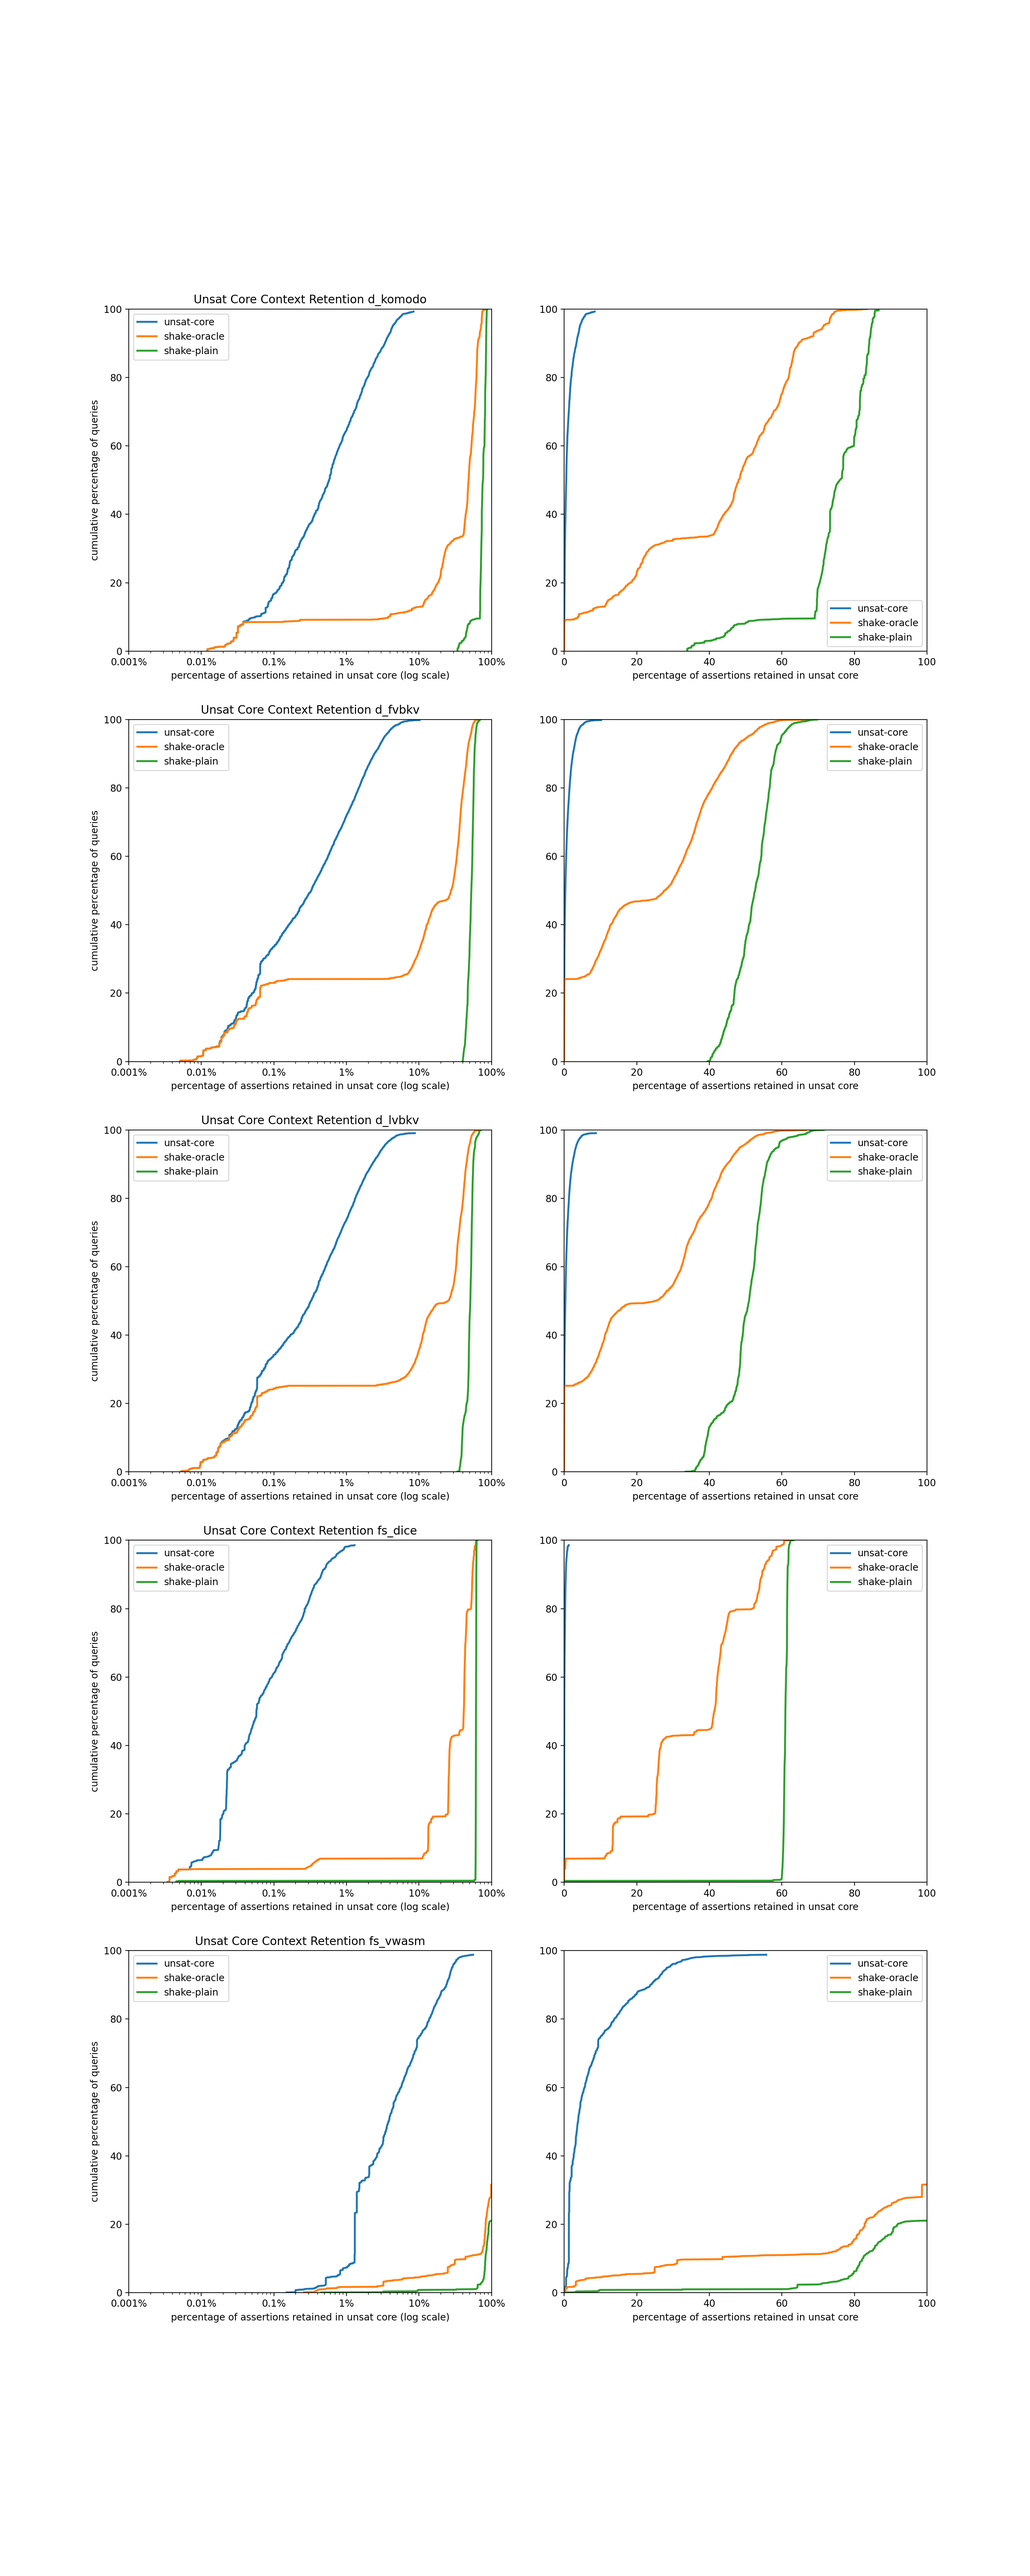
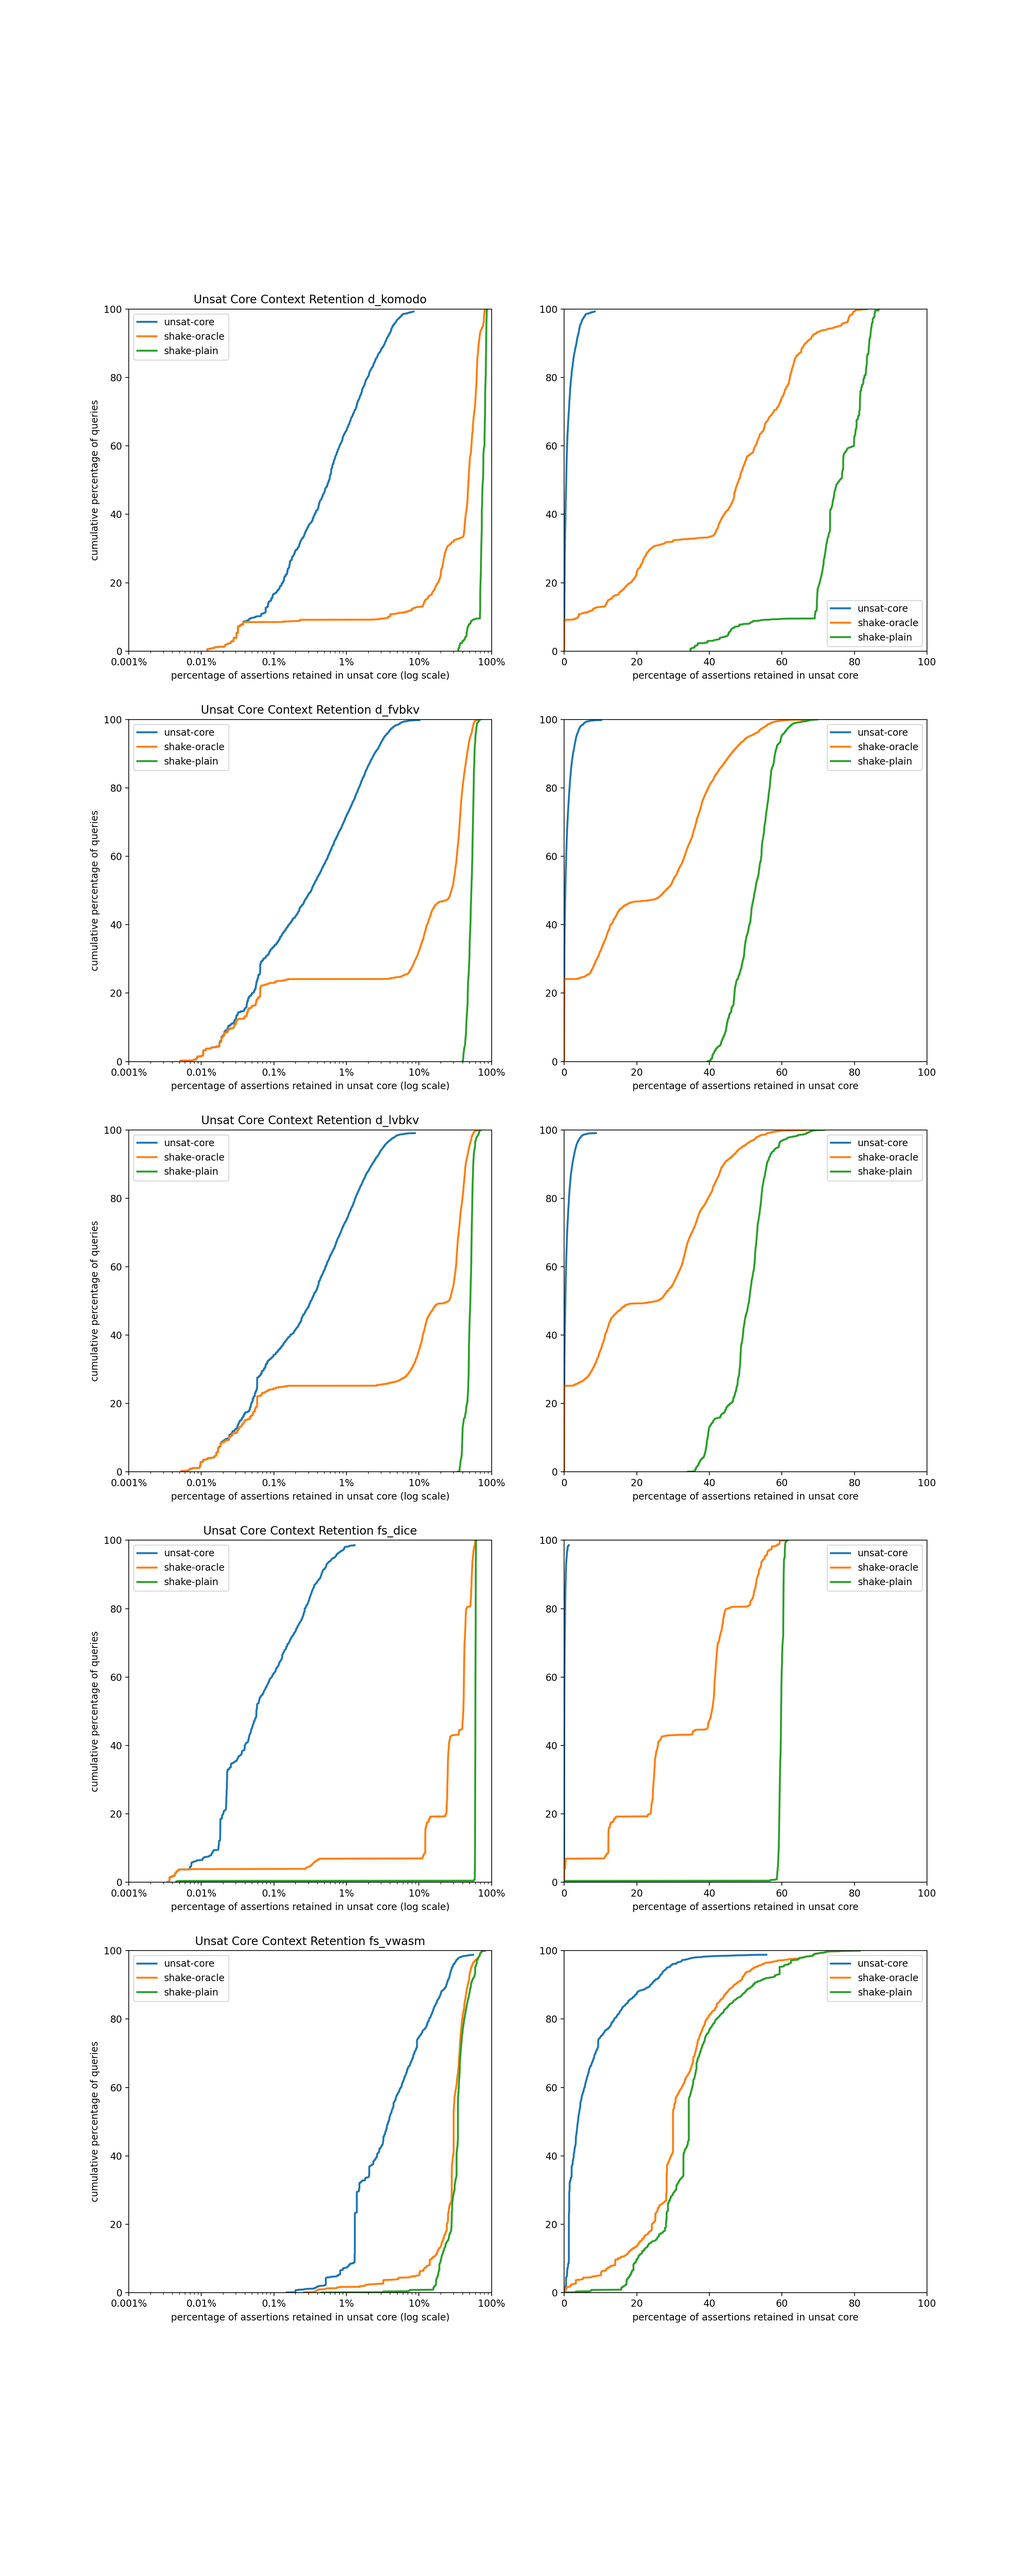
incoperate plot into unsat_core cmd utils

diff --git a/scripts/unsat_core_main.py b/scripts/unsat_core_main.py
@@ -5,6 +5,7 @@ from db_utils import *
 from cache_utils import *
 from unsat_core_build import *
 from unsat_core_stats import *
+from unsat_core_plot import *
 import argparse
 
 def emit_build(contents):
@@ -30,6 +31,13 @@ def handle_build(args, projects):
         func = lambda qm: qm.emit_shake()
     elif args.action == "oracle":
         func = lambda qm: qm.shake_from_oracle()
+    elif args.action == "shake-clean":
+        for p in projects:
+            os.system(f"rm -r {p.shke.clean_dir}")
+        return
+    else:
+        print(f"[WARN] unknown action {args.action}")
+        return
 
     contents = []
 
@@ -40,12 +48,37 @@ def handle_build(args, projects):
     emit_build(contents)
 
 def handle_stats(args, projects):
-    if args.target == "missing":
-        for p in projects:
+    for p in projects:
+        print(f"# {p.name}")
+        if args.target == "missing":
             p.print_missing_stats()
-    elif args.target == "shake-incomplete":
-        for p in projects:
+        elif args.target == "shake-incomplete":
             stat_shake_incomplete(p.qms, args.clear_cache)
+        elif args.target == "baseline-unstable":
+            stat_baseline_unstable(p)
+        else:
+            print(f"[WARN] unknown target {args.target}")
+
+def handle_plot(args, projects):
+    if args.target == "core-retention":
+        plot_core_retention(projects)
+    elif args.target == "shake-retention":
+        figure, axis = setup_fig(len(projects), 2)
+        for i, proj in enumerate(projects):
+            plot_shake_context_retention(axis[i], proj)
+        plt.savefig(f"fig/context/retention_shake.png", dpi=200)
+        plt.close()
+    elif args.target == "shake-depth":
+        figure, axis = setup_fig(len(projects), 1)
+        for i, proj in enumerate(projects):
+            plot_shake_max_depth(axis[i], proj)
+        plt.savefig(f"fig/context/shake_max_depth.png", dpi=200)
+        plt.close()
+    elif args.target == "migration":
+        for p in projects:
+            plot_migration(p)
+    else:
+        print(f"[WARN] unknown target {args.target}")
 
 if __name__ == "__main__":
     parser = argparse.ArgumentParser(description="a separate tool managing/building unsat core experiments")
@@ -60,6 +93,10 @@ if __name__ == "__main__":
     stats_parser.add_argument("-p", "--project", required=True, help="the target project, use 'all' to run on all projects")
     stats_parser.add_argument("-t", "--target", required=True, help="the target stats")
     stats_parser.add_argument("-c", "--clear_cache", default=False, action='store_true',help="clear the cache")
+
+    plot_parser = subparsers.add_parser('plot', help='plot stats')
+    plot_parser.add_argument("-p", "--project", required=True, help="the target project, use 'all' to run on all projects")
+    plot_parser.add_argument("-t", "--target", required=True, help="the target stats")
 
     args = parser.parse_args()
 
@@ -76,6 +113,5 @@ if __name__ == "__main__":
         handle_build(args, projects)
     elif args.sub_command == "stats":
         handle_stats(args, projects)
-
-
-
+    elif args.sub_command == "plot":
+        handle_plot(args, projects)

diff --git a/scripts/unsat_core_build.py b/scripts/unsat_core_build.py
@@ -2,9 +2,7 @@ from basic_utils import *
 from diff_smt import *
 from configer import *
 from db_utils import *
-from unsat_core_search import run_z3
 from cache_utils import *
-import argparse
 
 UNSAT_CORE_PROJECTS_NAMES = {
     "d_komodo": ("d_komodo_uc", "d_komodo_uc_ext", "d_komodo_shake", "d_komodo_uc_strip"),
@@ -46,7 +44,10 @@ rule format
 
 rule shake
     command = ./target/release/mariposa -i $in -o $out -m tree-shake --command-score-path $log
-    
+
+rule shake-special
+    command = ./target/release/mariposa -i $in -o $out -m tree-shake --command-score-path $log --shake-max-symbol-frequency 25
+
 rule strip
     command = ./target/release/mariposa -i $in -o $out -m remove-unused
 """
@@ -279,6 +280,8 @@ build {self.strp_path}: strip {input_path}"""
                 e_depths = [np.inf]
                 e_misses = np.inf
 
+            # self.get_debug_cmds()
+
             data = [np.mean(o_depths), max(o_depths), o_misses,
                 np.mean(m_depths), max(m_depths), m_misses,
                 np.mean(e_depths), max(e_depths), e_misses]
@@ -398,13 +401,6 @@ UNSAT_CORE_PROJECTS = {
     name: ProjectCoreManager(name) for name in UNSAT_CORE_PROJECTS_NAMES
 }
 
-# def reset_shake_dirs():
-#     for p in UNSAT_CORE_PROJECTS.values():
-#         os.system(f"rm -r {p.shke.clean_dir}")
-#         os.system(f"mkdir -p {p.shke.clean_dir}")
-#     os.system("rm -r ./gen")
-#     os.system(f"mkdir ./gen")
-
 # def get_shake_comp_test_qms():
 #     random.seed(1234)
 #     qms = []
@@ -414,42 +410,3 @@ UNSAT_CORE_PROJECTS = {
 
 if __name__ == "__main__":
     pass
-    # parser = argparse.ArgumentParser(description="a separate tool managing/building unsat core experiments")
-    # parser.add_argument("-p", "--project", required=True, help="the target project, use 'all' to run on all projects")
-    # parser.add_argument("-a", "--action", required=True, help="the action to perform")
-
-    # args = parser.parse_args()
-
-    # if args.project != "all" and args.project not in UNSAT_CORE_PROJECTS:
-    #     print(f"unknown project {args.project}")
-    #     exit(1)
-
-    # if args.project == "all":
-    #     projects = list(UNSAT_CORE_PROJECTS.values())
-    # else:
-    #     projects = [UNSAT_CORE_PROJECTS[args.project]]
-        
-    # if args.action == "missing":
-    #     for p in projects:
-    #         p.print_missing_stats()
-    #     exit(0)
-
-    # if args.action == "mini":
-    #     func = lambda qm: qm.emit_create_mini()
-    # elif args.action == "complete":
-    #     func = lambda qm: qm.emit_complete_mini()
-    # elif args.action == "strip":
-    #     func = lambda qm: qm.emit_strip()
-    # elif args.action == "shake":
-    #     func = lambda qm: qm.emit_shake()
-
-    # # elif args.action == "oracle":
-    # #     func = lambda qm: qm.shake_from_oracle()
-
-    # contents = []
-
-    # for p in projects:
-    #     for qm in p.qms:
-    #         contents.append(func(qm))
-
-    # emit_build(contents)

diff --git a/src/tree_shake.rs b/src/tree_shake.rs
@@ -313,7 +313,7 @@ impl UseTracker {
         }
     }
 
-    fn delayed_aggregate(&mut self, snowball: &SymbolSet, delayed: &mut SymbolSet) -> bool {
+    fn delayed_aggregate(&mut self, snowball: &SymbolSet) -> bool {
         let mut should_include = false;
 
         let mut cur_pattern_states = Vec::new();
@@ -370,18 +370,6 @@ impl UseTracker {
         }
 
         return should_include;
-        // if self.live_symbols.is_subset(&snowball) {
-        //     return (modified, true);
-        // }
-
-        // let mut should_add = false;
-        // if !self.live_symbols.is_disjoint(&snowball) {
-        //     // delayed.extend(self.live_symbols.iter().cloned());
-        //     modified = true;
-        //     should_add = true;
-        // }
-
-        // (modified, should_add)
     }
 
     fn debug(&self) {
@@ -450,9 +438,10 @@ pub fn tree_shake(
         let mut delayed = HashSet::new();
         modified = false;
         let prev_len = snowball.len();
+        let prev_poss_len = poss.len();
 
         for (pos, tracker) in trackers.iter_mut().enumerate() {
-            let should_include = tracker.delayed_aggregate(&snowball, &mut delayed);
+            let should_include = tracker.delayed_aggregate(&snowball);
             // if commands[pos].to_string().contains("binder_x_39cef6c8a4c32c00bec831967af0f4b9_3") {
             //     println!("debugging");
             //     let contains = snowball.contains(&concrete::Symbol("HasType".to_string()));
@@ -477,7 +466,7 @@ pub fn tree_shake(
 
         snowball.extend(delayed.into_iter());
 
-        if snowball.len() != prev_len {
+        if snowball.len() != prev_len || poss.len() != prev_poss_len {
             modified = true;
         }
 
@@ -487,31 +476,6 @@ pub fn tree_shake(
             break;
         }
     }
-    // let mut delayed = HashSet::new();
-
-    // for (pos, tracker) in trackers.iter_mut().enumerate() {
-    //     if commands[pos].to_string().contains(":qid refinement_interpretation_Tm_refine_b1b46f7ae8d75af55fe6822ff1fb6bf2") {
-    //         println!("debugging");
-    //         let contains = snowball.contains(&concrete::Symbol("Tm_refine_b1b46f7ae8d75af55fe6822ff1fb6bf2".to_string()));
-    //         println!("{}", contains);
-    //     }
-
-    //     if tracker.delayed_aggregate(&snowball, &mut delayed) {
-    //         poss.insert(pos);
-    //         if !stamps.contains_key(&pos) {
-    //             stamps.insert(pos, iteration);
-    //         }
-    //     } else {
-    //         if let Command::Assert { term: _ } = &commands[pos] {
-    //         } else {
-    //             poss.insert(pos);
-    //         }
-    //     }
-    // }
-
-
-    // let contains = snowball.contains(&concrete::Symbol("Tm_refine_b1b46f7ae8d75af55fe6822ff1fb6bf2".to_string()));
-    // println!("{}", contains);
 
     if let Some(shake_log_path) = shake_log_path {
         let mut log_file = std::fs::File::create(shake_log_path).unwrap();

diff --git a/scripts/unsat_core_plot.py b/scripts/unsat_core_plot.py
@@ -8,6 +8,7 @@ from unsat_core_build import *
 import plotly.graph_objects as go
 import plotly
 import re
+from copy import deepcopy
 
 # def plot_instability_change():
 #     fig, ax = plt.subplots()
@@ -40,7 +41,6 @@ import re
 #     plt.savefig("fig/context/instability_diff.png", dpi=200)
 #     plt.close()
 
-
 # def get_assert_size(query_path):
 #     size = 0
 #     for line in open(query_path).readlines():
@@ -48,10 +48,10 @@ import re
 #             size += len(line)
 #     return size
 
-def plot_all_context_retention():
+def plot_core_retention(projects):
     fig, ax = plt.subplots()
 
-    for proj in UNSAT_CORE_PROJECTS.values():
+    for proj in projects:
         pts = proj.get_assert_counts(True)
         xs, ys = get_cdf_pts(pts[:, 1] * 100 / pts[:, 0])
         plt.plot(xs, ys, marker=",", label=proj.name, linewidth=2)
@@ -65,15 +65,6 @@ def plot_all_context_retention():
     plt.ylim(0, 100)
     plt.xticks([0.001, 0.01, 0.1, 1.0, 10, 100], ["0.001%", "0.01%", "0.1%", "1%", "10%", "100%"])
     plt.savefig("fig/context/retention_core.png", dpi=200)
-    plt.close()
-
-def plot_all_shake_context_retention():
-    figure, axis = setup_fig(len(UNSAT_CORE_PROJECTS), 2)
-
-    for i, proj in enumerate(UNSAT_CORE_PROJECTS.values()):
-        plot_shake_context_retention(axis[i], proj)
-
-    plt.savefig(f"fig/context/retention_shake.png", dpi=200)
     plt.close()
 
 def plot_shake_context_retention(sps, proj):
@@ -172,22 +163,6 @@ def plot_shake_max_depth(sp, proj):
     sp.grid(True)
     sp.legend()
     sp.set_title(f"Shake Assertion Max Depth Distribution {proj.name}")
-
-def plot_all_shake_max_depth():
-    figure, axis = setup_fig(len(UNSAT_CORE_PROJECTS), 1)
-
-    for i, proj in enumerate(UNSAT_CORE_PROJECTS.values()):
-        plot_shake_max_depth(axis[i], proj)
-
-    plt.savefig(f"fig/context/shake_max_depth.png", dpi=200)
-    plt.close()
-
-
-def dump_baseline_unstable(proj):
-    for qm in tqdm(proj.qms):
-        if qm.orig_status == Stability.UNSTABLE:
-            qm.get_debug_cmds()
-            print("")
 
 def plot_migration(proj):
     mini_cats = proj.mini_cats
@@ -401,14 +376,4 @@ def analyze_test_set():
     #     print(i)
 
 if __name__ == "__main__":
-    # analyze_test_set()
-    
-    # dump_baseline_unstable(UNSAT_CORE_PROJECTS["d_fvbkv"])
-    # plot_migration(UNSAT_CORE_PROJECTS["d_fvbkv"])
-
-    # for proj in UNSAT_CORE_PROJECTS.values():
-    #     plot_shake_incomplete(proj)
-
-    plot_all_shake_max_depth()
-    # plot_all_context_retention()
-    # plot_all_shake_context_retention()
+    pass

diff --git a/scripts/unsat_core_stats.py b/scripts/unsat_core_stats.py
@@ -1,16 +1,20 @@
 import numpy as np
 from tqdm import tqdm
 from basic_utils import *
+from analyzer import *
 
 def stat_shake_incomplete(qms, clear_cache):
     dps = []
 
-    for qm in tqdm(qms):
-        stats = qm.get_shake_stats(unify=True, clear_cache=clear_cache)
+    if clear_cache:
+        qms = tqdm(qms)
+
+    for qm in qms:
+        stats = qm.get_shake_stats(unify=False, clear_cache=clear_cache)
         dps.append(stats)
-        if stats[5] > 0 and stats[5] < np.inf:
-            print(stats[5])
-            qm.get_debug_cmds()
+        # if stats[5] > 0 and stats[5] < np.inf:
+        #     print(stats[5])
+        #     qm.get_debug_cmds()
 
     dps = np.array(dps)
 
@@ -25,3 +29,9 @@ def stat_shake_incomplete(qms, clear_cache):
     print("total queries:\t", total)
     print(f"core available:\t{cores} ({rd_percent_str(cores, total)})")
     print(f"shake missed:\t{misses} ({rd_percent_str(misses, total)}/{rd_percent_str(misses, cores)})")
+
+def stat_baseline_unstable(proj):
+    for qm in tqdm(proj.qms):
+        if qm.orig_status == Stability.UNSTABLE:
+            qm.get_debug_cmds()
+            print("")

diff --git a/scripts/diff_smt.py b/scripts/diff_smt.py
@@ -28,7 +28,6 @@ def check_assert_subset(orig_path, reduced_path):
         print(len(original), len(reduced))
         for i in key_set(reduced) - key_set(original):
             print(reduced[i])
-            break
         assert False
 
 def get_assert_count(filename):
@@ -64,8 +63,8 @@ def tokenize(line, tf):
 def parse_stamps(filename):
     cmds0 = dict()
     for line in open(filename):
-        line = line.split("|||")
-        stamp = int(line[0].strip())
+        line = line.strip().split("|||")
+        stamp = int(line[0])
         nl = normalize_line(line[1])
         if nl.startswith("(assert"):
             cmds0[nl] = stamp
